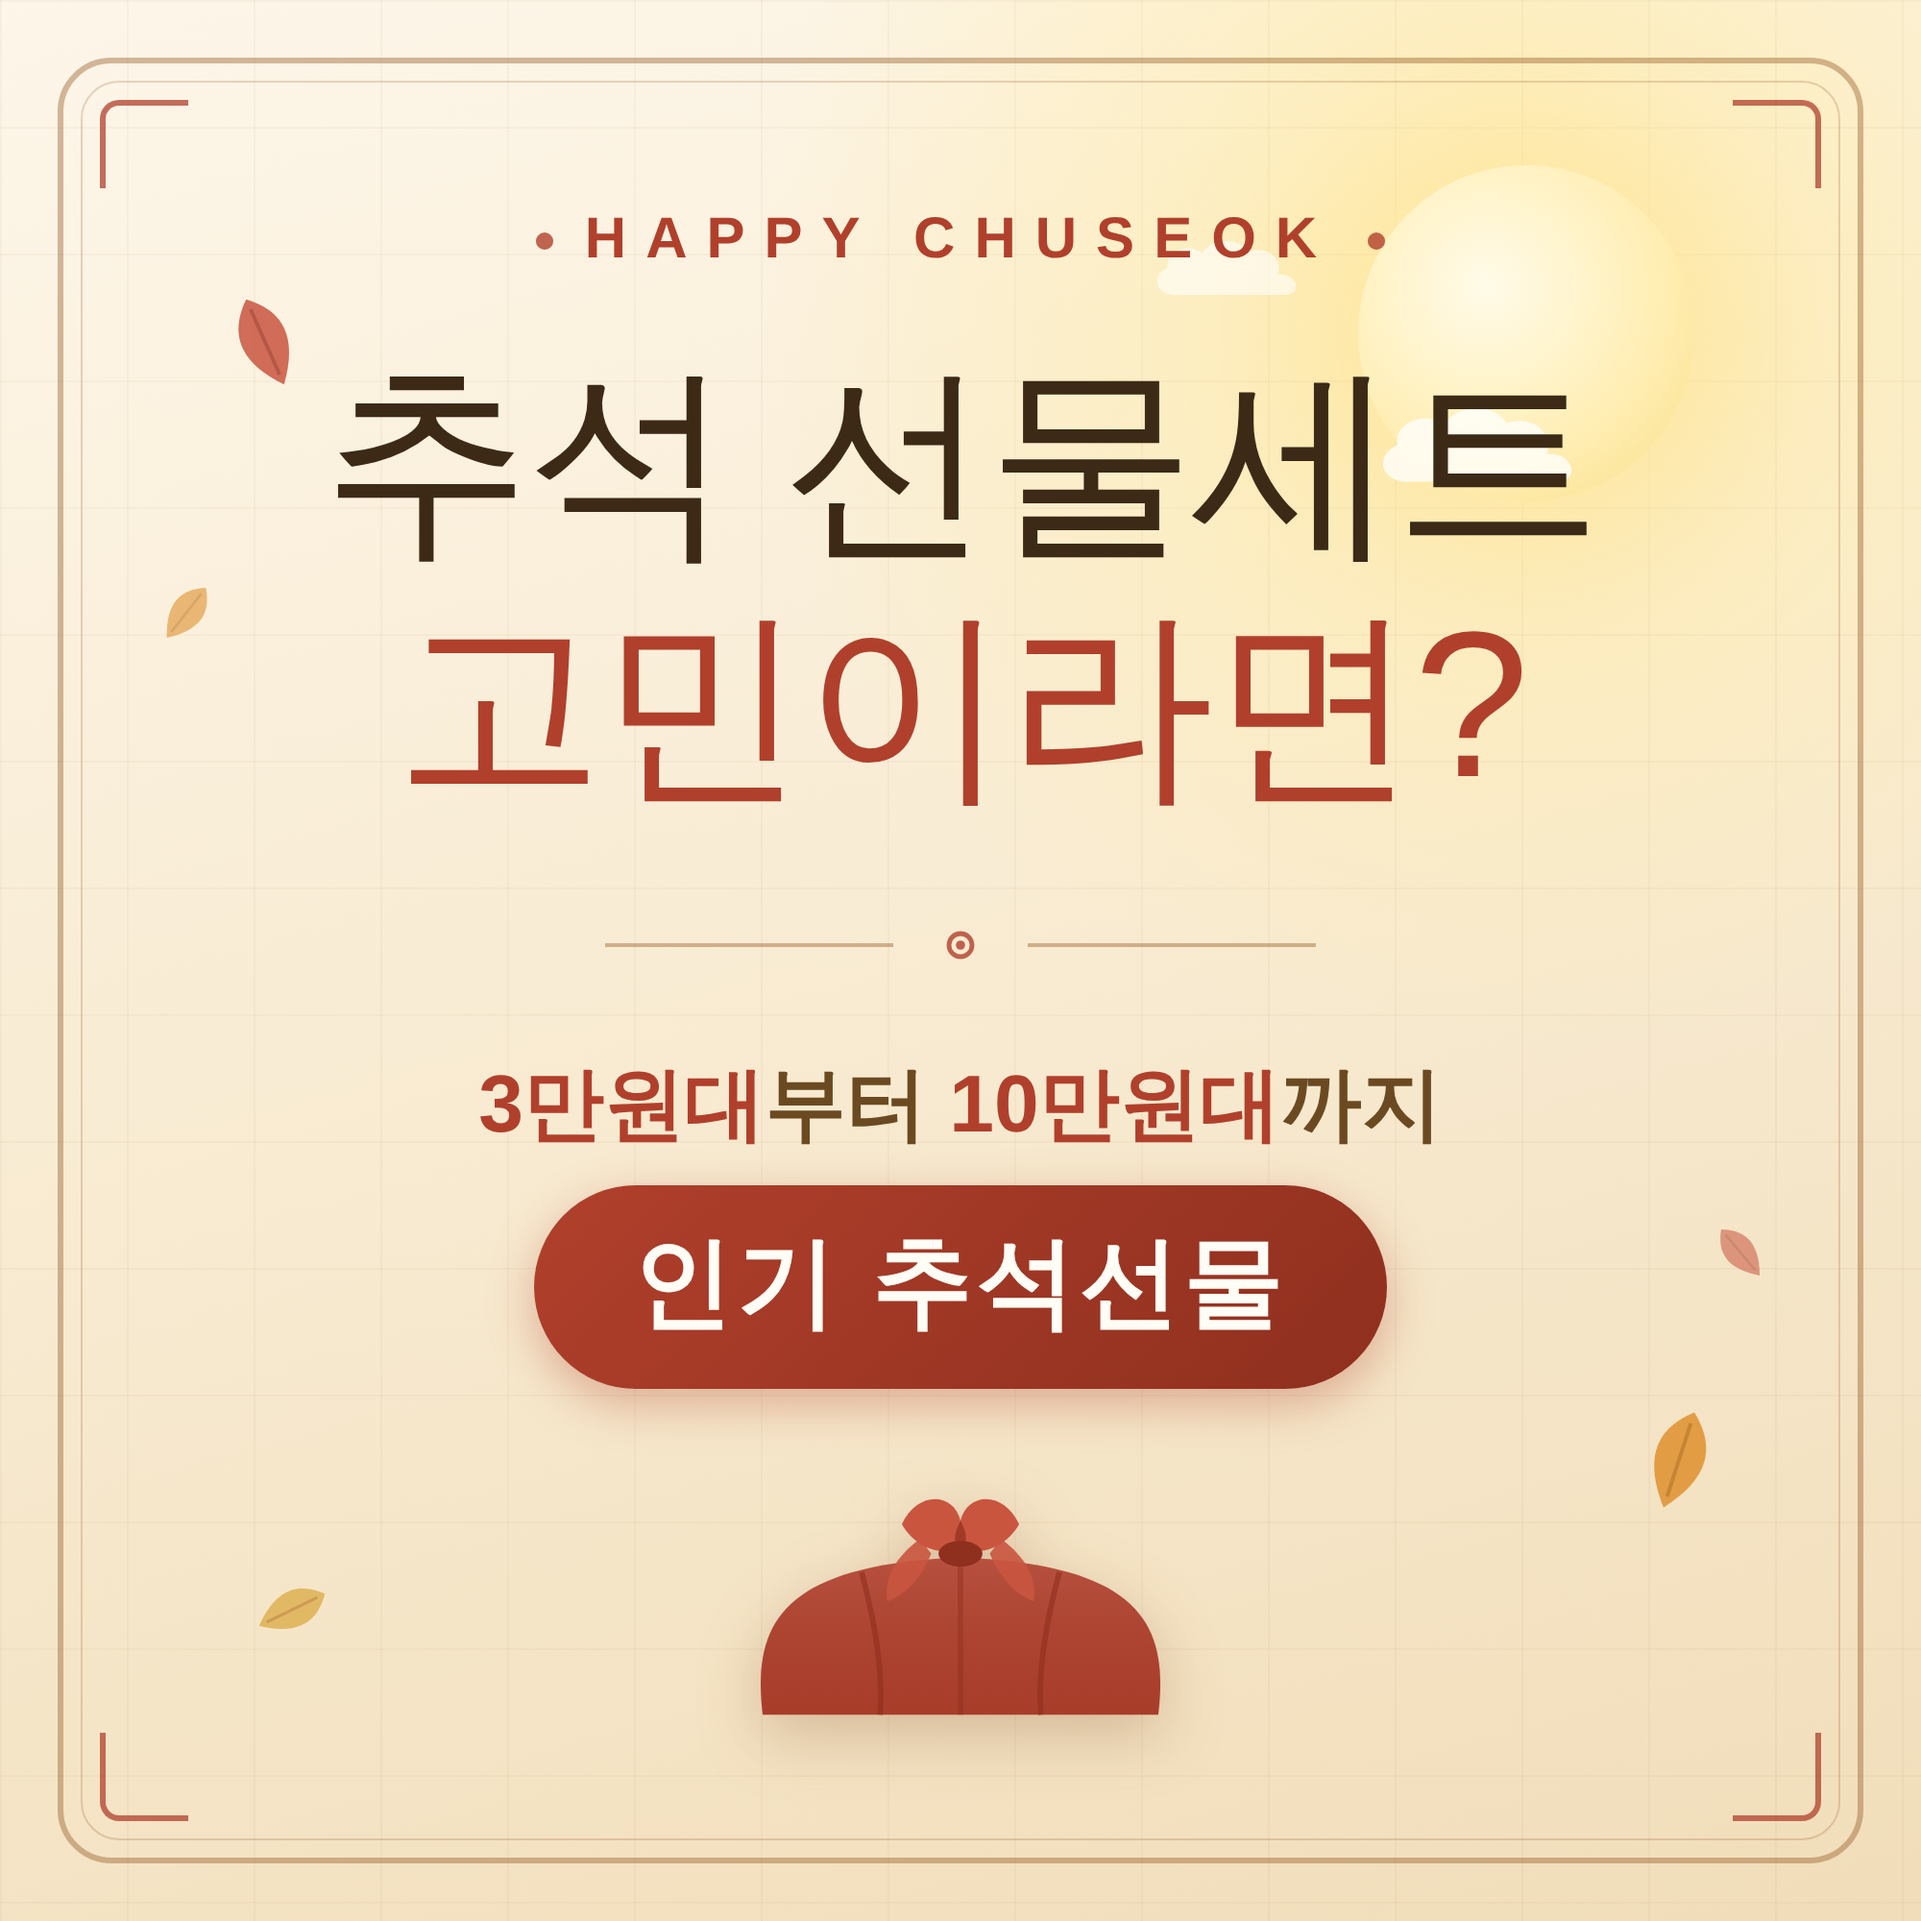
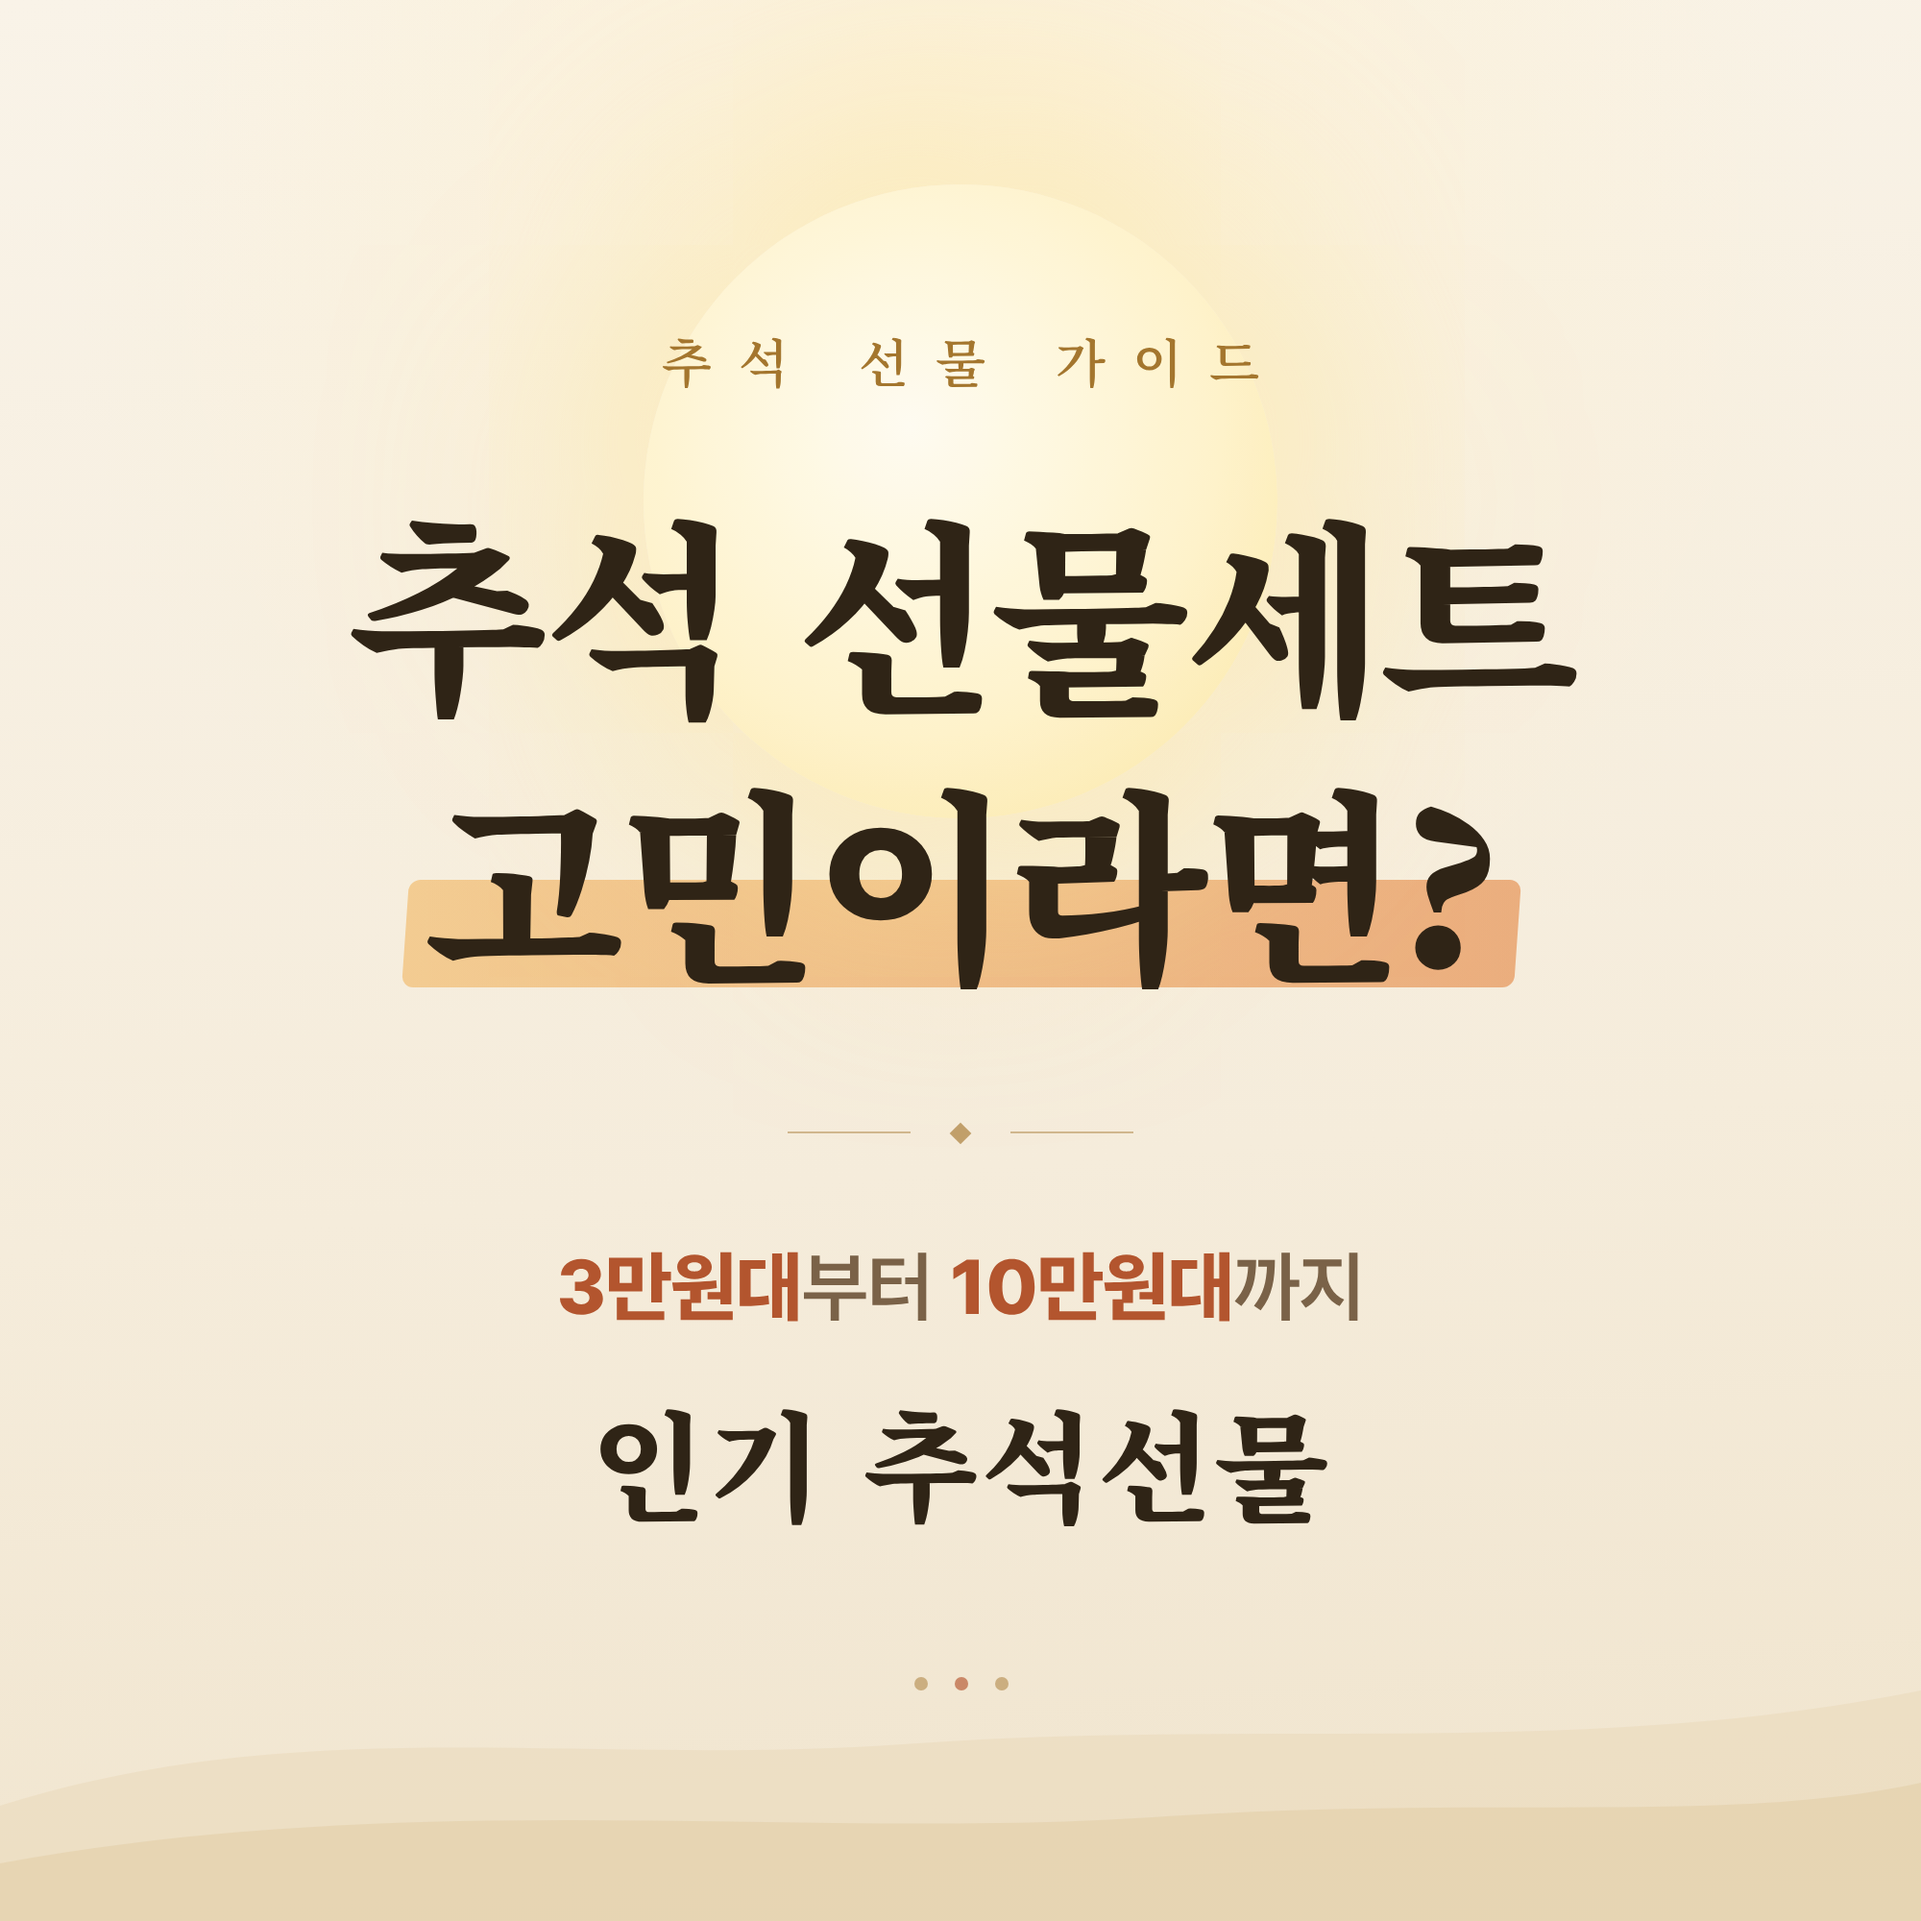
썸네일 폰트 교체: Noto Serif KR Black 명조 + Pretendard, 장식 미니멀화
Claude-Session: https://claude.ai/code/session_0174ryv7JDcsWgnyvKQV3Y2v

diff --git a/blog-assets/2026-09-01-chuseok-gift-sets/thumbnail.html b/blog-assets/2026-09-01-chuseok-gift-sets/thumbnail.html
@@ -2,183 +2,122 @@
 <html lang="ko">
 <head>
 <meta charset="utf-8">
-<link rel="preconnect" href="https://fonts.googleapis.com">
-<link rel="preconnect" href="https://fonts.gstatic.com" crossorigin>
-<link href="https://fonts.googleapis.com/css2?family=Black+Han+Sans&family=Noto+Sans+KR:wght@400;500;700;900&family=Nanum+Myeongjo:wght@700;800&display=swap" rel="stylesheet">
+<!-- 폰트는 시스템에 설치된 Noto Serif KR(가변)과 Pretendard를 사용한다 -->
 <style>
   * { margin: 0; padding: 0; box-sizing: border-box; }
   html, body { width: 1000px; height: 1000px; overflow: hidden; }
   body {
-    font-family: 'Noto Sans KR', sans-serif;
+    font-family: 'Pretendard', 'Noto Sans KR', sans-serif;
     background:
-      radial-gradient(circle at 78% 16%, rgba(255, 236, 170, 0.9) 0%, rgba(255, 236, 170, 0) 34%),
-      linear-gradient(165deg, #fdf6e9 0%, #f8ebd2 50%, #f1ddb9 100%);
+      radial-gradient(circle at 50% 12%, rgba(255, 240, 200, 0.55) 0%, rgba(255, 240, 200, 0) 46%),
+      linear-gradient(175deg, #f9f3e8 0%, #f5ecdb 60%, #f0e4cd 100%);
     position: relative;
   }
 
-  /* 은은한 창살 패턴 */
-  .lattice {
-    position: absolute; inset: 0;
-    background-image:
-      linear-gradient(rgba(140, 90, 40, 0.045) 1px, transparent 1px),
-      linear-gradient(90deg, rgba(140, 90, 40, 0.045) 1px, transparent 1px);
-    background-size: 66px 66px;
-  }
-
-  /* 보름달 */
+  /* 보름달 — 크고 은은하게, 타이틀 뒤 */
   .moon {
-    position: absolute; top: 86px; right: 118px;
-    width: 175px; height: 175px; border-radius: 50%;
-    background: radial-gradient(circle at 38% 36%, #fffbe9, #ffedb0 62%, #f9dd85);
-    box-shadow: 0 0 70px 24px rgba(255, 228, 150, 0.6);
+    position: absolute; top: 96px; left: 50%; transform: translateX(-50%);
+    width: 330px; height: 330px; border-radius: 50%;
+    background: radial-gradient(circle at 42% 38%, #fffdf4, #fff3c9 58%, #fbe49b);
+    box-shadow: 0 0 110px 44px rgba(255, 231, 160, 0.5);
+    opacity: 0.9;
   }
-
-  /* 구름 두 장 */
-  .cloud { position: absolute; opacity: 0.9; }
-  .cloud-1 { top: 208px; right: 96px; width: 190px; }
-  .cloud-2 { top: 122px; right: 262px; width: 140px; opacity: 0.75; }
-
-  /* 흩날리는 단풍 */
-  .leaf { position: absolute; }
-  .leaf-1 { top: 150px; left: 110px; width: 56px; transform: rotate(-24deg); opacity: 0.85; }
-  .leaf-2 { top: 300px; left: 78px; width: 38px; transform: rotate(38deg); opacity: 0.6; }
-  .leaf-3 { bottom: 210px; right: 96px; width: 60px; transform: rotate(18deg); opacity: 0.85; }
-  .leaf-4 { bottom: 330px; right: 76px; width: 36px; transform: rotate(-40deg); opacity: 0.55; }
-  .leaf-5 { bottom: 140px; left: 130px; width: 44px; transform: rotate(64deg); opacity: 0.7; }
-
-  .frame {
-    position: absolute; inset: 30px;
-    border: 3px solid rgba(146, 84, 30, 0.4);
-    border-radius: 28px;
-  }
-  .frame::after {
-    content: ''; position: absolute; inset: 9px;
-    border: 1.5px solid rgba(146, 84, 30, 0.22);
-    border-radius: 20px;
-  }
-  /* 모서리 장식 */
-  .corner {
-    position: absolute; width: 46px; height: 46px;
-    border: 3px solid #b0402c; opacity: 0.75;
-  }
-  .c-tl { top: 52px; left: 52px; border-right: 0; border-bottom: 0; border-radius: 10px 0 0 0; }
-  .c-tr { top: 52px; right: 52px; border-left: 0; border-bottom: 0; border-radius: 0 10px 0 0; }
-  .c-bl { bottom: 52px; left: 52px; border-right: 0; border-top: 0; border-radius: 0 0 0 10px; }
-  .c-br { bottom: 52px; right: 52px; border-left: 0; border-top: 0; border-radius: 0 0 10px 0; }
 
   .content {
     position: relative; height: 100%;
     display: flex; flex-direction: column; align-items: center;
     text-align: center;
-    padding: 108px 90px 96px;
+    padding: 168px 90px 120px;
   }
 
-  .badge {
-    display: flex; align-items: center; gap: 16px;
-    color: #b0402c; font-weight: 700; font-size: 30px; letter-spacing: 10px;
+  .eyebrow {
+    font-family: 'Noto Serif KR', serif;
+    font-weight: 600; font-size: 27px; color: #a4762e;
+    letter-spacing: 14px; text-indent: 14px;
   }
-  .badge .dot { width: 9px; height: 9px; border-radius: 50%; background: #b0402c; opacity: 0.8; }
 
   h1 {
-    font-family: 'Black Han Sans', 'Noto Sans KR', sans-serif;
-    font-weight: 400;
-    color: #3c2a17;
+    font-family: 'Noto Serif KR Black', 'Noto Serif KR', serif;
+    color: #2f2416;
     font-size: 108px;
-    line-height: 1.18;
-    margin-top: 34px;
-    letter-spacing: -2px;
+    line-height: 1.3;
+    margin-top: 40px;
+    letter-spacing: -3px;
   }
-  h1 .accent { color: #b0402c; }
+  h1 .line2 { position: relative; display: inline-block; }
+  /* 브러시 하이라이트 */
+  h1 .line2::before {
+    content: '';
+    position: absolute; left: -10px; right: -10px; bottom: 14px; height: 40%;
+    background: linear-gradient(90deg, rgba(240, 170, 70, 0.5), rgba(226, 122, 48, 0.55));
+    border-radius: 6px;
+    transform: skewX(-4deg);
+    z-index: -1;
+  }
 
   .divider {
-    margin-top: 46px;
-    display: flex; align-items: center; gap: 20px;
+    margin-top: 58px;
+    display: flex; align-items: center; gap: 22px;
+    color: rgba(164, 118, 46, 0.65);
   }
-  .divider .line { width: 150px; height: 2px; background: rgba(146, 84, 30, 0.4); }
-  .divider svg { width: 30px; height: 30px; }
+  .divider .line { width: 64px; height: 1px; background: rgba(164, 118, 46, 0.45); }
+  .divider .diamond {
+    width: 8px; height: 8px; background: rgba(164, 118, 46, 0.65);
+    transform: rotate(45deg);
+  }
 
   .sub {
-    margin-top: 40px;
-    font-weight: 700; font-size: 42px; color: #6b4a22;
-    letter-spacing: 0;
+    margin-top: 52px;
+    font-weight: 600; font-size: 40px; color: #7a6248;
+    letter-spacing: -0.5px;
   }
-  .sub .price { color: #b0402c; font-weight: 900; }
+  .sub b { font-weight: 800; color: #b3552e; }
 
-  .sub2 {
-    margin-top: 14px;
-    display: inline-block;
-    font-weight: 900; font-size: 52px; color: #fffdf5;
-    background: linear-gradient(135deg, #b0402c, #8f2f1e);
-    padding: 16px 52px 20px; border-radius: 999px;
-    letter-spacing: 2px;
-    box-shadow: 0 8px 24px rgba(176, 64, 44, 0.35);
+  .tagline {
+    margin-top: 22px;
+    font-family: 'Noto Serif KR Black', 'Noto Serif KR', serif;
+    font-size: 62px; color: #2f2416;
+    letter-spacing: 1px;
   }
 
-  /* 하단 보자기 선물 일러스트 */
-  .gift { margin-top: auto; width: 330px; filter: drop-shadow(0 10px 16px rgba(120, 60, 20, 0.25)); }
+  /* 하단 미니멀 장식: 가는 선 + 달항아리 실루엣 대신 심플한 점 3개 */
+  .footer {
+    margin-top: auto;
+    display: flex; flex-direction: column; align-items: center; gap: 26px;
+  }
+  .dots { display: flex; gap: 14px; }
+  .dots span { width: 7px; height: 7px; border-radius: 50%; background: rgba(164, 118, 46, 0.5); }
+  .dots span:nth-child(2) { background: rgba(179, 85, 46, 0.65); }
+
+  /* 좌우 하단의 아주 은은한 산 능선 */
+  .hills { position: absolute; bottom: 0; left: 0; width: 100%; }
 </style>
 </head>
 <body>
-  <div class="lattice"></div>
   <div class="moon"></div>
 
-  <svg class="cloud cloud-1" viewBox="0 0 200 60">
-    <path d="M20 45 C4 45 2 30 14 25 C12 12 30 6 40 14 C46 2 68 2 74 13 C88 8 100 18 96 30 C110 28 116 45 100 45 Z"
-      fill="#fff" opacity="0.85"/>
+  <svg class="hills" viewBox="0 0 1000 180" preserveAspectRatio="none">
+    <path d="M0 180 L0 120 C160 70 300 100 470 88 C660 74 820 96 1000 60 L1000 180 Z" fill="#ead9ba" opacity="0.55"/>
+    <path d="M0 180 L0 150 C220 110 420 138 600 126 C780 114 900 130 1000 108 L1000 180 Z" fill="#e3cfa8" opacity="0.6"/>
   </svg>
-  <svg class="cloud cloud-2" viewBox="0 0 200 60">
-    <path d="M20 45 C4 45 2 30 14 25 C12 12 30 6 40 14 C46 2 68 2 74 13 C88 8 100 18 96 30 C110 28 116 45 100 45 Z"
-      fill="#fff" opacity="0.8"/>
-  </svg>
-
-  <svg class="leaf leaf-1" viewBox="0 0 60 60"><path d="M30 4 C44 16 50 32 30 56 C10 32 16 16 30 4 Z" fill="#c9553f"/><path d="M30 10 L30 50" stroke="#8f2f1e" stroke-width="2" opacity="0.6"/></svg>
-  <svg class="leaf leaf-2" viewBox="0 0 60 60"><path d="M30 4 C44 16 50 32 30 56 C10 32 16 16 30 4 Z" fill="#e0912e"/><path d="M30 10 L30 50" stroke="#a86215" stroke-width="2" opacity="0.6"/></svg>
-  <svg class="leaf leaf-3" viewBox="0 0 60 60"><path d="M30 4 C44 16 50 32 30 56 C10 32 16 16 30 4 Z" fill="#e0912e"/><path d="M30 10 L30 50" stroke="#a86215" stroke-width="2" opacity="0.6"/></svg>
-  <svg class="leaf leaf-4" viewBox="0 0 60 60"><path d="M30 4 C44 16 50 32 30 56 C10 32 16 16 30 4 Z" fill="#c9553f"/><path d="M30 10 L30 50" stroke="#8f2f1e" stroke-width="2" opacity="0.6"/></svg>
-  <svg class="leaf leaf-5" viewBox="0 0 60 60"><path d="M30 4 C44 16 50 32 30 56 C10 32 16 16 30 4 Z" fill="#d9a63a"/><path d="M30 10 L30 50" stroke="#a86215" stroke-width="2" opacity="0.6"/></svg>
-
-  <div class="frame"></div>
-  <div class="corner c-tl"></div>
-  <div class="corner c-tr"></div>
-  <div class="corner c-bl"></div>
-  <div class="corner c-br"></div>
 
   <div class="content">
-    <div class="badge"><span class="dot"></span>HAPPY CHUSEOK<span class="dot"></span></div>
+    <div class="eyebrow">추석 선물 가이드</div>
 
-    <h1>추석 선물세트<br><span class="accent">고민이라면?</span></h1>
+    <h1>추석 선물세트<br><span class="line2">고민이라면?</span></h1>
 
     <div class="divider">
       <div class="line"></div>
-      <svg viewBox="0 0 30 30"><circle cx="15" cy="15" r="6" fill="none" stroke="#b0402c" stroke-width="2.4" opacity="0.8"/><circle cx="15" cy="15" r="2.4" fill="#b0402c" opacity="0.8"/></svg>
+      <div class="diamond"></div>
       <div class="line"></div>
     </div>
 
-    <div class="sub"><span class="price">3만원대</span>부터 <span class="price">10만원대</span>까지</div>
-    <div class="sub2">인기 추석선물</div>
+    <div class="sub"><b>3만원대</b>부터 <b>10만원대</b>까지</div>
+    <div class="tagline">인기 추석선물</div>
 
-    <svg class="gift" viewBox="0 0 300 190">
-      <!-- 보자기로 싼 선물 -->
-      <path d="M42 178 C36 128 52 96 150 92 C248 96 264 128 258 178 Z" fill="#b0402c"/>
-      <path d="M42 178 C36 128 52 96 150 92 C248 96 264 128 258 178 Z" fill="url(#shade)" opacity="0.25"/>
-      <!-- 보자기 주름 -->
-      <path d="M96 100 C104 130 108 156 106 178" stroke="#8f2f1e" stroke-width="3" fill="none" opacity="0.6"/>
-      <path d="M204 100 C196 130 192 156 194 178" stroke="#8f2f1e" stroke-width="3" fill="none" opacity="0.6"/>
-      <path d="M150 92 C150 122 150 152 150 178" stroke="#8f2f1e" stroke-width="3" fill="none" opacity="0.45"/>
-      <!-- 매듭 -->
-      <path d="M118 74 C126 56 146 56 150 72 C154 56 174 56 182 74 C174 88 158 92 150 86 C142 92 126 88 118 74 Z" fill="#c9553f"/>
-      <path d="M150 72 C146 80 146 84 150 88 C154 84 154 80 150 72 Z" fill="#8f2f1e" opacity="0.7"/>
-      <ellipse cx="150" cy="90" rx="12" ry="7" fill="#8f2f1e"/>
-      <!-- 매듭 리본 끝자락 -->
-      <path d="M128 82 C114 92 108 104 110 116 C122 112 130 100 134 90 Z" fill="#c9553f" opacity="0.9"/>
-      <path d="M172 82 C186 92 192 104 190 116 C178 112 170 100 166 90 Z" fill="#c9553f" opacity="0.9"/>
-      <defs>
-        <linearGradient id="shade" x1="0" y1="0" x2="0" y2="1">
-          <stop offset="0" stop-color="#fff" stop-opacity="0.35"/>
-          <stop offset="1" stop-color="#000" stop-opacity="0.18"/>
-        </linearGradient>
-      </defs>
-    </svg>
+    <div class="footer">
+      <div class="dots"><span></span><span></span><span></span></div>
+    </div>
   </div>
 </body>
 </html>
